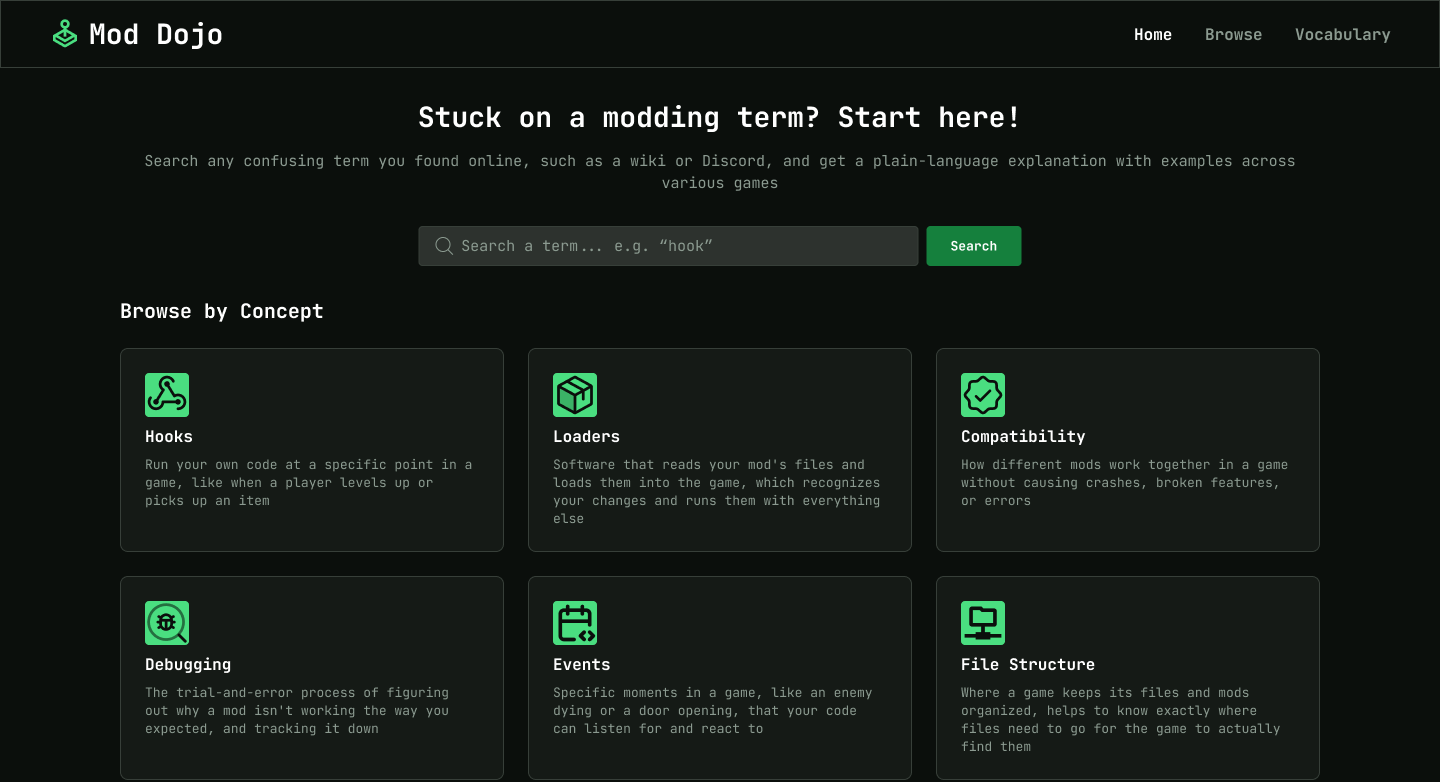
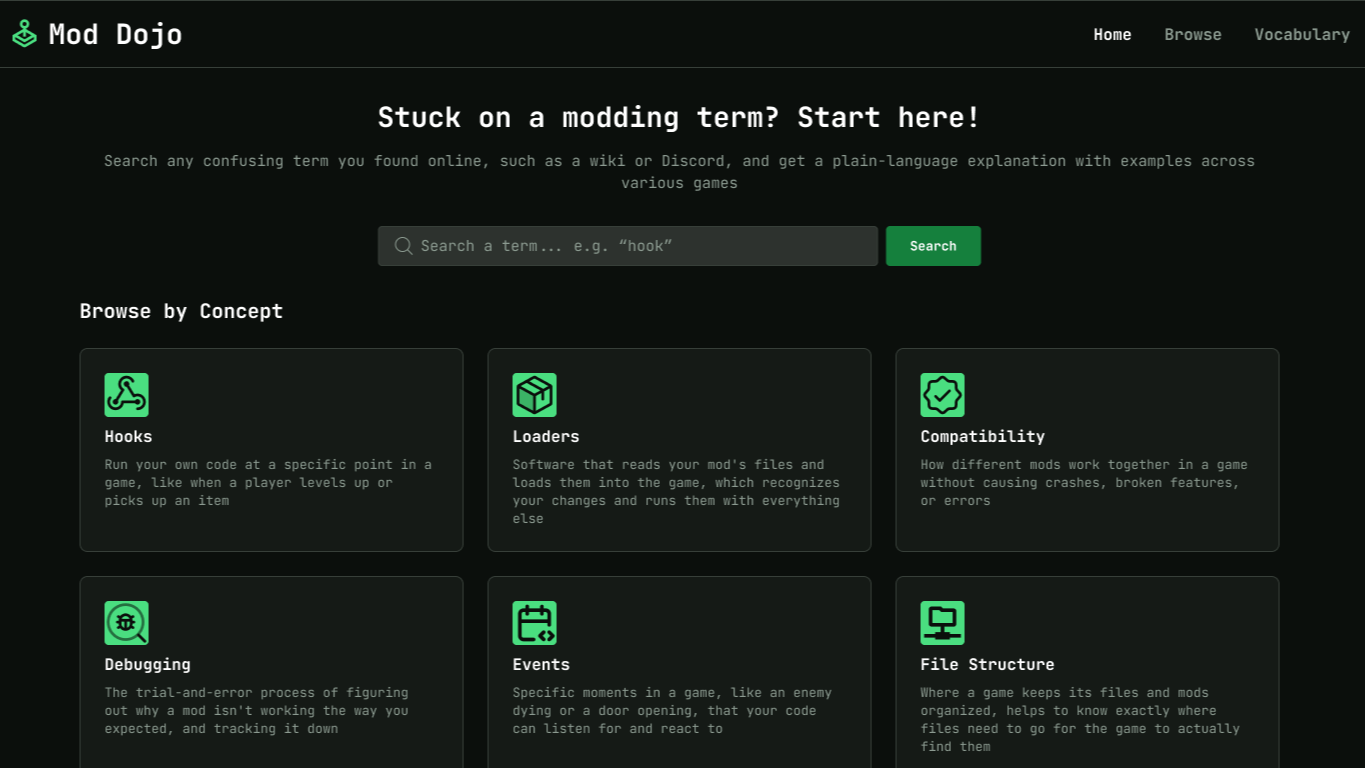
add tablet media query to project 02 style css; update home page title; link mod dojo prototype

diff --git a/project-02/projects/index.html b/project-02/projects/index.html
@@ -83,7 +83,7 @@
                                 <li>ui/ux</li>
                                 <li>product design</li>
                             </ul>
-                            <a href="https://www.figma.com/design/HAzY6bjilRWZM6NDhya7j6/Sadia-Qureshi---Mod-Dojo---Final?node-id=9-1023"
+                            <a href="https://www.figma.com/proto/HAzY6bjilRWZM6NDhya7j6/Sadia-Qureshi---Mod-Dojo---Final?node-id=9-1023&p=f&t=5byiuOZCAEhR0B56-1&scaling=contain&content-scaling=fixed&page-id=1%3A2&starting-point-node-id=9%3A1023"
                                 target="_blank" class="more-link">view on
                                 figma &#8594;</a>
                         </div>

diff --git a/project-02/css/style.css b/project-02/css/style.css
@@ -443,3 +443,43 @@ footer a:hover {
     color: var(--purple);
     border-color: var(--purple);
 }
+
+@media (width <=900px) {
+    main {
+        padding: 40px 24px;
+    }
+
+    .window-row,
+    .skill-groups {
+        flex-direction: column;
+    }
+
+    .window-row .window,
+    .skill-groups section {
+        flex-basis: auto;
+    }
+
+    .hello {
+        font-size: 48px;
+    }
+
+    .thumb-grid {
+        flex-wrap: nowrap;
+    }
+
+    .thumb-grid li {
+        flex: 1 1 0;
+    }
+
+    .thumb-grid img {
+        height: 110px;
+    }
+
+    .gallery li {
+        flex-basis: 48%;
+    }
+
+    .project-card img {
+        flex-basis: 45%;
+    }
+}

diff --git a/project-02/index.html b/project-02/index.html
@@ -4,7 +4,7 @@
 <head>
     <meta charset="UTF-8">
     <meta name="viewport" content="width=device-width, initial-scale=1.0">
-    <title>Sadia's Portfolio - Home</title>
+    <title>Sadia's Portfolio</title>
     <link rel="stylesheet" href="css/style.css">
 </head>
 
